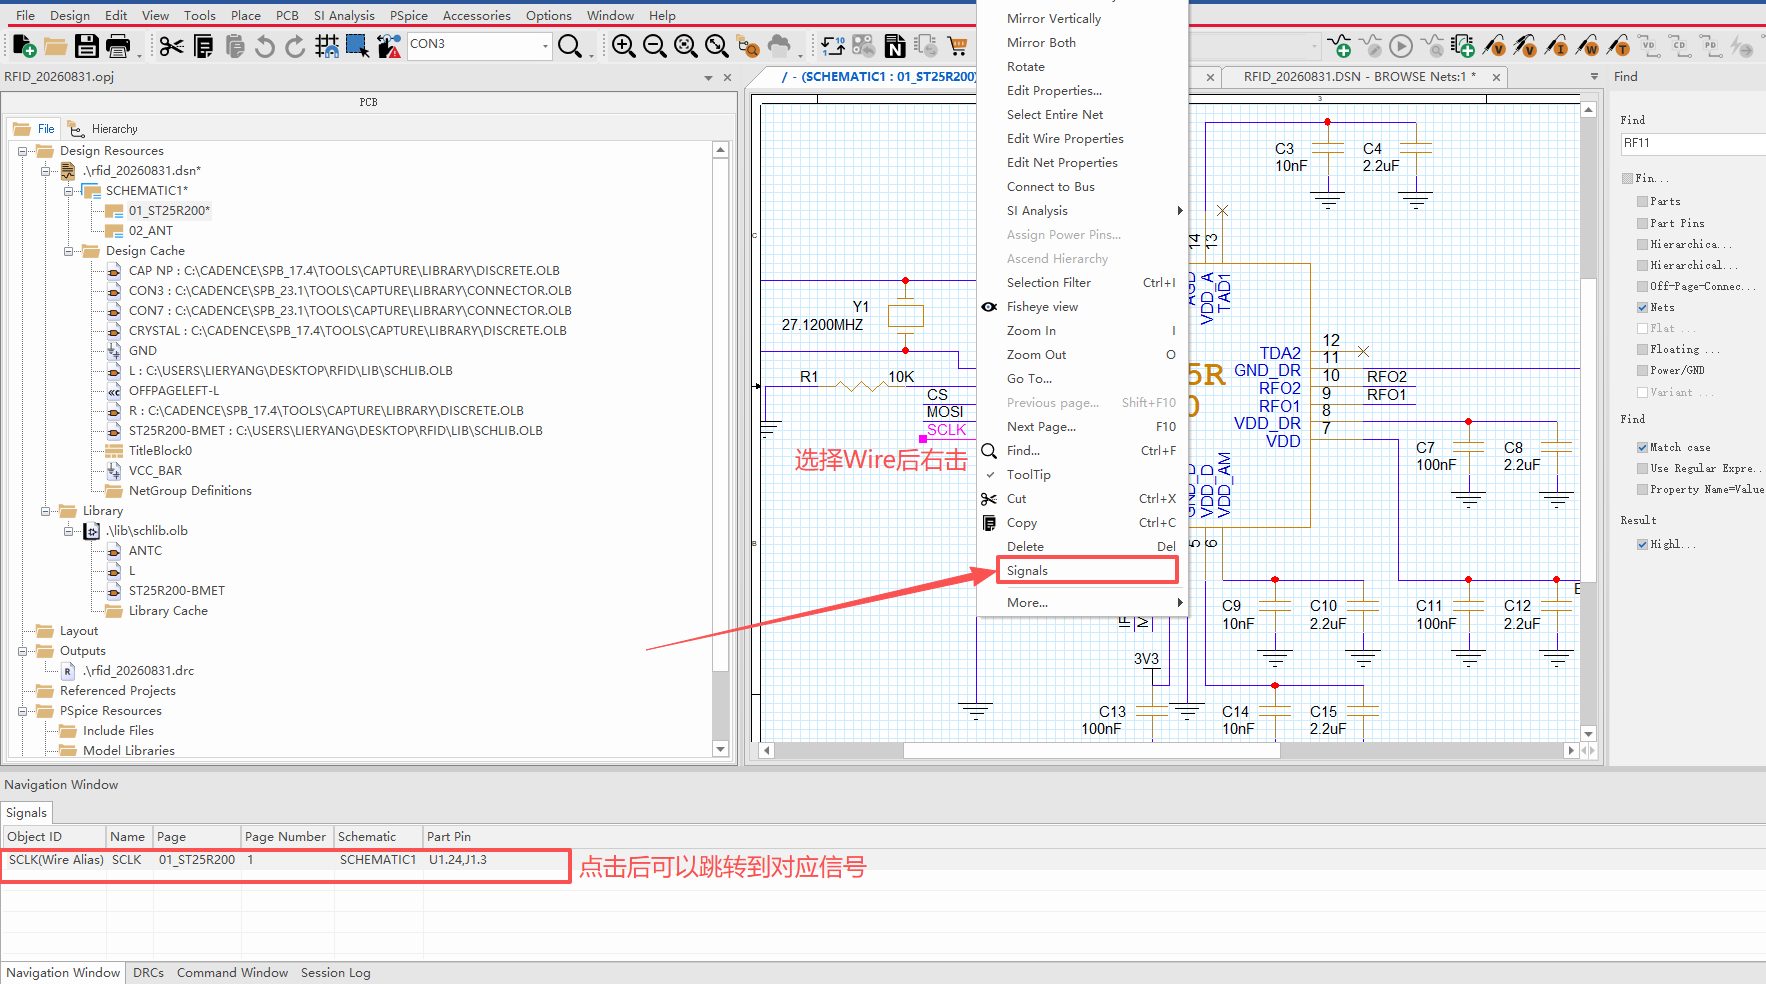
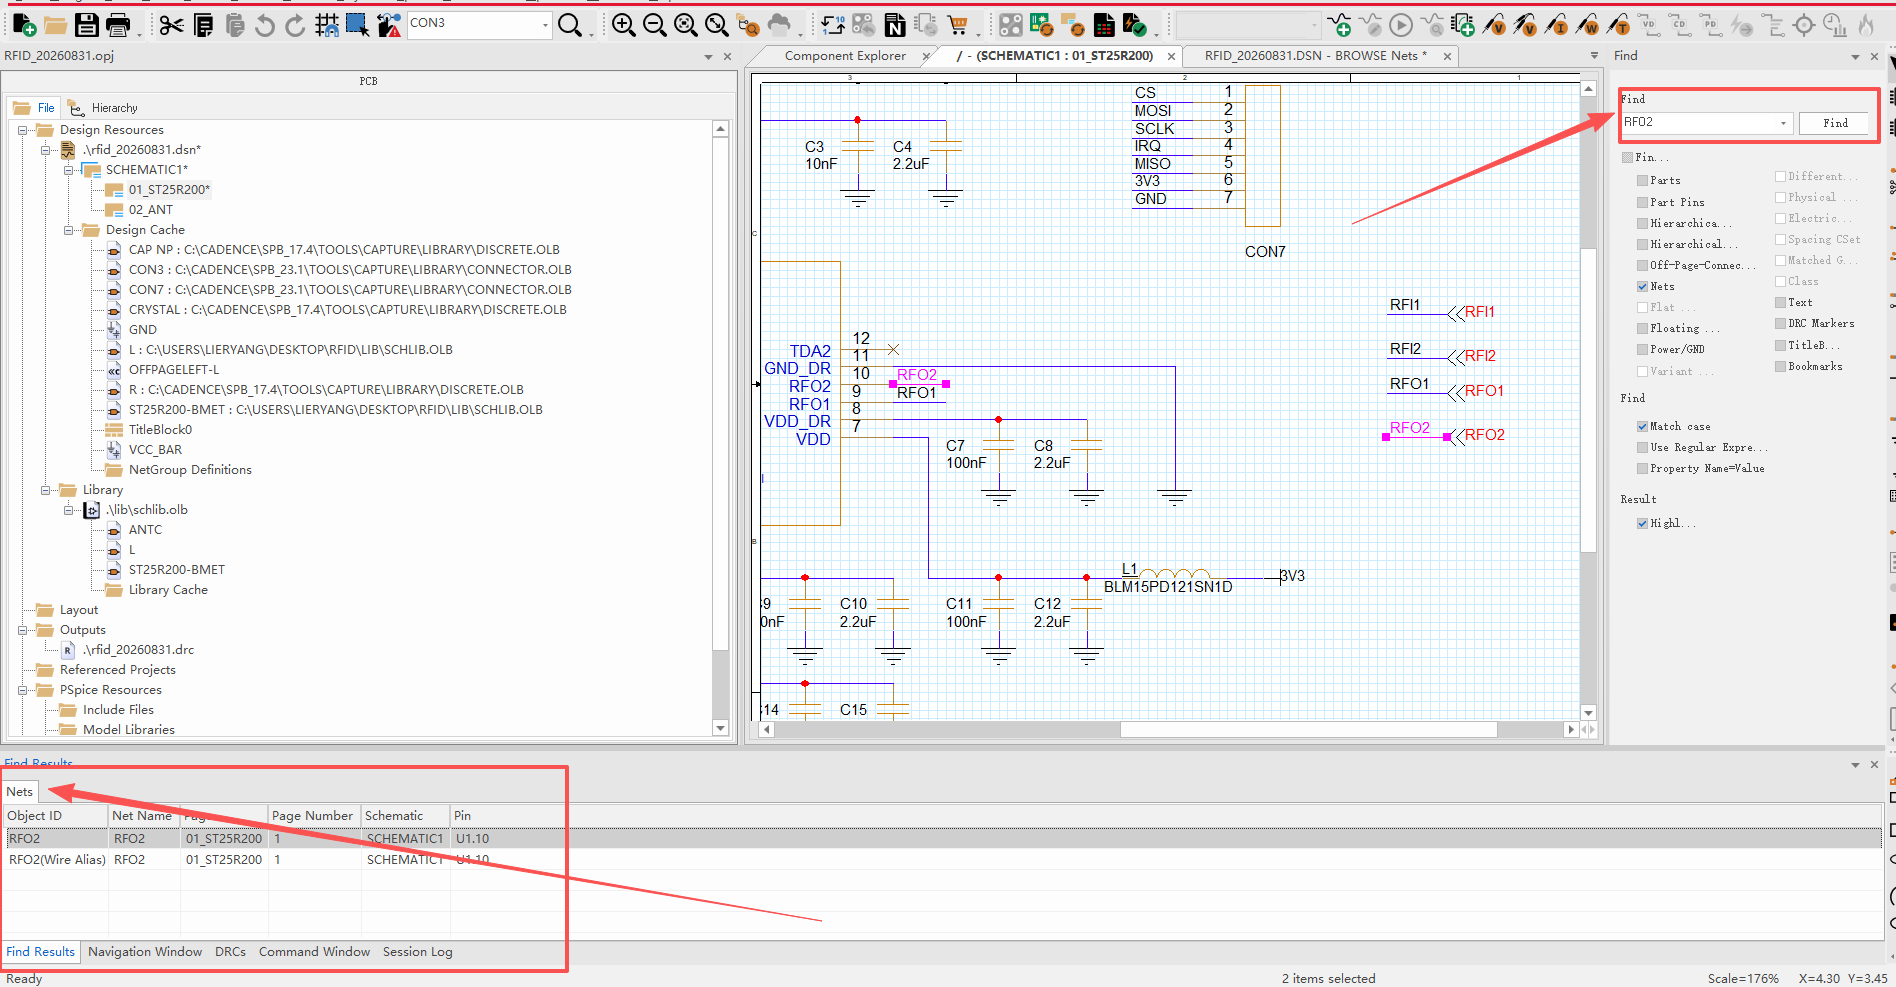
u

diff --git a/_posts/Cadence/2026-08-31-05-原理图导出网表.md b/_posts/Cadence/2026-08-31-05-原理图导出网表.md
@@ -5,16 +5,70 @@ categories: Cadence
 tags: [Cadence]
 ---
 
-![alt text](./05_image/image.png)
+## 1 导出网表
 
-![alt text](./05_image/image-1.png)
+在 OrCAD Capture 中选择 **Tools → Create Netlist**，生成供 PCB 使用的网表。
 
-![alt text](./05_image/image-2.png)
+![Capture 中打开 Create Netlist](./05_image/image.png)
 
-![alt text](./05_image/image-3.png)
+导出后，在 **allegro** 文件夹中可以看到 `pstchip.dat`、`pstxnet.dat`、`pstxprt.dat` 等网表文件，后续导入时选择这个文件夹。
 
-![alt text](./05_image/image-4.png)
+![allegro 文件夹中的网表文件](./05_image/image-1.png)
 
-![alt text](./05_image/image-5.png)
+## 2 新建 PCB 文件
 
-![alt text](./05_image/image-6.png)
+打开 OrCAD PCB Designer，选择 **File → New**，设置保存目录和文件名，**Drawing Type** 选择 **Board**，点击 **OK** 新建 `.brd` 文件。
+
+![新建 Board 类型的 PCB 文件](./05_image/image-2.png)
+
+## 3 导入网表
+
+在 PCB 软件中选择 **Import → Netlist**，打开网表导入窗口。
+
+![打开 Import Netlist](./05_image/image-3.png)
+
+选择 **Design Entry CIS (Capture)**，将 **Import directory** 指向前面生成的 **allegro** 文件夹，点击 **Import** 导入。
+
+![选择 Capture 网表类型和导入目录](./05_image/image-4.png)
+
+## 4 快速放置器件
+
+导入完成后，选择 **Place → Quickplace**，将器件封装放到 PCB 画布中。
+
+![打开 Quickplace 快速放置器件](./05_image/image-5.png)
+
+在 Quickplace 中选择器件范围和放置方式，点击 **Place** 执行。需要放置全部器件时，可以选择 **Place all components**；**Board layer** 用来选择放置层。
+
+![Quickplace 的器件范围、位置和放置层设置](./05_image/image-6.png)
+
+## 5 设置单位和工作区
+
+选择 **Setup → Design Parameters → Design**，在 **User units** 中设置单位，图中使用的是 **Millimeter（毫米）**。
+
+**Extents** 设置可操作的工作区范围：**Left X / Lower Y** 为左下角坐标，**Width / Height** 为宽度和高度。左下角设为负值，可以在原点左侧和下方操作；这里设置的是工作区范围，不是 PCB 板框尺寸。
+
+![设置设计单位和工作区范围](./05_image/image-7.png)
+
+## 6 设置栅格
+
+选择 **Setup → Grids**，勾选 **Grids On** 显示栅格。**Spacing X / Y** 设置横向、纵向间距，**Offset X / Y** 设置栅格偏移。
+
+**Non-Etch** 用于器件放置等非铜层操作，**All Etch** 用于统一设置铜层栅格，也可以单独设置 **TOP / BOTTOM**。数值单位跟随 **User units**，例如 `5` 在 mil 单位下表示 5 mil，在毫米单位下表示 5 mm。
+
+![设置栅格显示和间距](./05_image/image-8.png)
+
+## 7 显示栅格和原点
+
+选择 **Setup → Design Parameters → Display**，勾选 **Grids on** 显示栅格，勾选 **Design origin** 显示设计原点 `(0, 0)`。
+
+红框中的 **Enhanced display modes** 用于控制孔、焊盘、连接点、DRC 标记等的显示，例如 **Filled pads** 表示实心显示焊盘，**Waived DRCs** 表示显示已豁免的 DRC 标记。
+
+![显示选项中的栅格和设计原点设置](./05_image/image-9.png)
+
+## 8 设置文字尺寸
+
+选择 **Setup → Design Parameters → Text**，点击 **Setup text sizes** 右侧的 `…`，打开 **Text Setup**，可设置丝印等文字使用的尺寸。
+
+**Text Blk** 是文字样式编号；**Width / Height** 是字符宽度和高度；**Line Space** 是行间距；**Photo Width** 是笔画宽度；**Char Space** 是字符间距。尺寸单位同样跟随 **User units**。
+
+![设置文字宽高、笔画宽度和间距](./05_image/image-10.png)

diff --git a/_posts/Cadence/2026-08-31-04-原理图常用操作.md b/_posts/Cadence/2026-08-31-04-原理图常用操作.md
@@ -9,7 +9,7 @@ tags: [Cadence]
 
 原理图里只看见一段线时，想知道这根网还连到哪些引脚，可以走 **右键 → Signals**。
 
-![选择 Wire 后右击 Signals](04_image/image-1.png)
+![选择 Wire 后右击 Signals](04_image/image.png)
 
 操作步骤：
 
@@ -46,7 +46,7 @@ Navigation Window 各列含义：
 
 已经知道网络名、但图上不好找时，用右侧 **Find** 面板（或 `Ctrl+F`）直接搜名字。
 
-![Find 查找网络 RFO2](04_image/image.png)
+![Find 查找网络 RFO2](04_image/image-1.png)
 
 上图在 Find 输入框里填了 `RFO2`，点 **Find** 后：
 
@@ -69,4 +69,40 @@ Find Results 里出现两行，都是同一根网，只是对象类型不同：
 | 起点 | 图上已经点中了一段线 | 只记得名字，图上还没找到 |
 | 结果出现在 | Navigation Window | Find Results |
 | 典型用途 | 从线段追到全部引脚 | 按名字定位、高亮整网 |
+
+## 3 栅格间距
+
+原理图中一格的长度，要结合 **Pin-to-Pin Spacing（基础间距）** 和 **Grid spacing（栅格间距比例）** 查看。图中的基础间距为 `0.100 inch`，栅格比例为 `1 / 1`，所以一格是 **100 mil = 0.1 inch = 2.54 mm**。这是原理图纸上的长度，不代表 PCB 封装的实际引脚间距。
+
+**查看基础间距：**
+
+1. 打开需要查看的原理图页，使该页成为当前窗口
+2. 选择 **Options → Schematic Page Properties**
+3. 在 **Page Size** 标签页底部查看 **Pin-to-Pin Spacing**，同时确认 **Units** 中的单位
+
+![通过 Schematic Page Properties 查看基础间距 0.100 inch](04_image/image-2.png)
+
+上图各项含义：
+
+| 项目 | 图中设置 | 含义 |
+|------|----------|------|
+| Units | Inches | 使用英寸；也可以选择 Millimeters（毫米） |
+| New Page Size | B，宽 `15.200`、高 `9.700` inches | 当前图纸尺寸；Custom 可以指定自定义尺寸 |
+| Pin-to-Pin Spacing | `0.100` inches | 基础间距，即 **100 mil** |
+
+**查看和修改栅格比例：**
+
+选择 **Options → Preferences**，再切换到 **Grid Display** 标签页。
+
+![打开 Preferences 并切换到 Grid Display](04_image/image-3.png)
+
+![Grid Display 中的栅格显示、间距比例和吸附设置](04_image/image-4.png)
+
+左侧 **Schematic Page Grid** 控制原理图页的栅格。图中的 **Grid spacing** 是 `1 / 1 of pin to pin`，表示一格等于基础间距；下拉框修改的是分母。例如改为 `2`，就是 `1 / 2`，一格缩小为基础间距的一半。
+
+## 4 原理图预览封装
+
+选中器件，右击点击`Show Footprint`
+
+![alt text](04_image/image-5.png)
 

diff --git a/_posts/Cadence/2026-08-31-03-原理图DRC.md b/_posts/Cadence/2026-08-31-03-原理图DRC.md
@@ -125,29 +125,3 @@ tags: [Cadence]
 
 后三条建议保持勾选：位号非法或重复，到 PCB 阶段会直接对不上封装。
 
-## 5 其余两页（无截图，跑 DRC 前建议看一眼）
-
-对话框左侧还有 **ERC Matrix** 和 **Exception Setup**，截图没拍，但和 Rules Setup 是一套的。
-
-- **ERC Matrix（电气规则矩阵）**：行/列是引脚类型（Input、Output、Passive、Power 等），交叉格子决定两种引脚相连时报 Error、Warning 还是合法。例如 Output–Output 通常是 Error，Passive–Passive 合法。电源脚故意不接、或某些 OC/OD 输出并联，要在矩阵里改，而不是关整条规则。
-- **Exception Setup**：对已知、可接受的违规做豁免（Waive），避免每次 DRC 都报同一条。Options 里 **Waived DRC = Do Not Preserve** 时，豁免不会跨次数保留，下次 Run 仍会再报。
-
-## 6 建议操作顺序
-
-1. **PCB → Design Rules Check...**
-2. Options：Online DRC 开着；Batch 选 Run on Design；Warning 选 Create DRC Markers
-3. Rules Setup：按原理图结构勾 Electrical Rules（平坦图可关 off-page / hierarchical）
-4. Report Setup：至少打开 invalid refdes、identical part references
-5. 点 **Run**
-6. 在 DRC 窗口逐条跳到原理图修改，改完再 Run 一次，直到只剩有意保留的问题
-
-## 7 小结
-
-| 页 | 管什么 | 这组截图里的要点 |
-|----|--------|------------------|
-| 菜单 PCB | 入口 | 选 **Design Rules Check...**，不要和 Update Layout 搞混 |
-| Options | 怎么跑、结果放哪 | Online 打开；Batch 跑整个 Design；警告打标记 |
-| Rules Setup | 查哪些错 | 单节点、重名网络 Batch+Online；悬空脚、无驱动源只 Batch |
-| Report Setup | 报告多打哪些清单 | 位号非法/重复必须开；全网络名、跨页清单按需 |
-
-一句话：原理图 DRC 先在 Options 定运行方式，再在 Rules Setup 勾电气规则，最后用 Report Setup 把位号类问题打进报告。点 Run 清零（或只剩已知豁免）后再导出网表。
